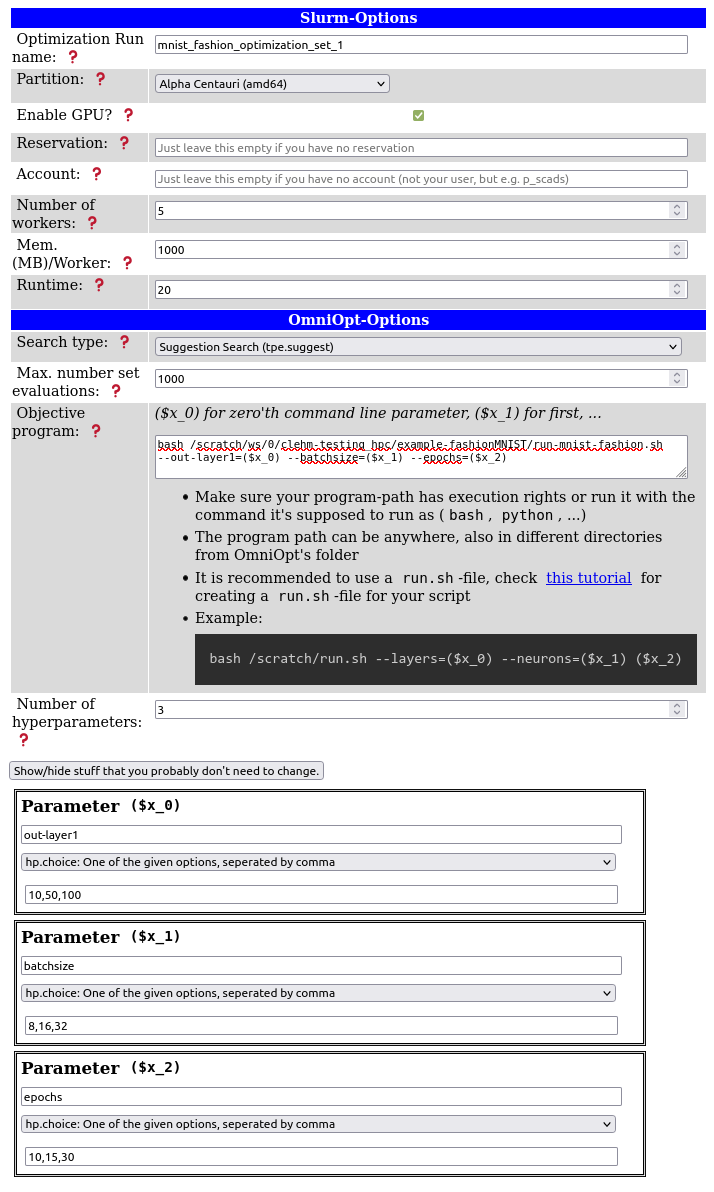
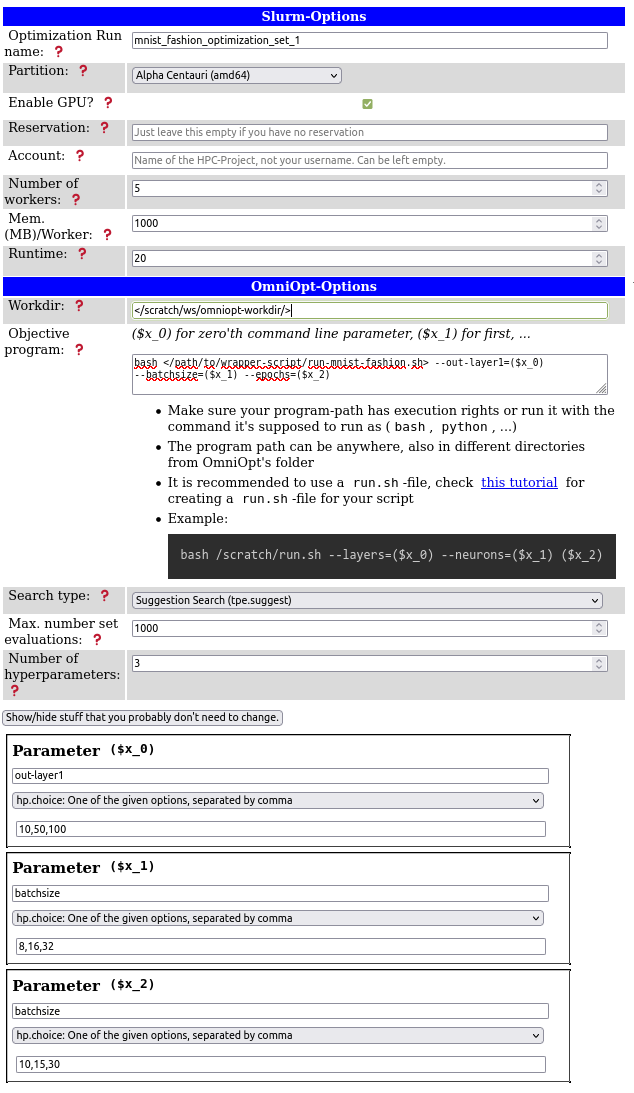
software/hyperparameter_optimization.md:first final draft for OmniOpt

diff --git a/doc.zih.tu-dresden.de/docs/software/hyperparameter_optimization.md b/doc.zih.tu-dresden.de/docs/software/hyperparameter_optimization.md
@@ -62,9 +62,9 @@ There are the following script preparation steps for OmniOpt:
         # coding: utf-8
 
         # # Example for using OmniOpt
-        # 
+        #
         # source code taken from: https://pytorch.org/tutorials/beginner/basics/quickstart_tutorial.html
-        # parameters under consideration:# 
+        # parameters under consideration:#
         # 1. batch size
         # 2. epochs
         # 3. size output layer 1
@@ -181,7 +181,7 @@ There are the following script preparation steps for OmniOpt:
             correct /= size
             print(f"Test Error: \n Accuracy: {(100*correct):>0.1f}%, Avg loss: {test_loss:>8f} \n")
 
-            
+           
             #print statement esp. for OmniOpt (single line!!)
             print(f"RESULT: {test_loss:>8f} \n")
 
@@ -195,23 +195,24 @@ There are the following script preparation steps for OmniOpt:
   1. Testing script functionality and determine software requirements for the chosen [partition](../jobs_and_resources/system_taurus.md#partitions).
     In the following the alpha partition is used.
     Please note the parameters `--out-layer1`, `--batchsize`, `--epochs` when calling the python script.
-	Additionally, note the `RESULT` string with the output for OmniOpt.
+Additionally, note the `RESULT` string with the output for OmniOpt.
 
-	??? hint "Hint for installing Python modules"
-		Note that for this example the module `torchvision` is not available on the alpha partition and it is installed by creating a [virtual environment](python_virtual_environments.md). 
-		It is recommended to install such a virtual environment into a [workspace](../data_lifecycle/workspaces.md).
-		``` console
-		marie@login$ module load modenv/hiera  GCC/10.2.0  CUDA/11.1.1 OpenMPI/4.0.5 PyTorch/1.9.0
-		marie@login$ mkdir </path/to/workspace/python-environments>    #create folder 
-	  	marie@login$ virtualenv --system-site-packages </path/to/workspace/python-environments/torchvision_env>
-		marie@login$ source </path/to/workspace/python-environments/torchvision_env>/bin/activate #activate virtual environment
-  		marie@login$ pip install torchvision #install torchvision module
-		```	
+??? hint "Hint for installing Python modules"
+Note that for this example the module `torchvision` is not available on the alpha partition and it is installed by creating a [virtual environment](python_virtual_environments.md).
+It is recommended to install such a virtual environment into a [workspace](../data_lifecycle/workspaces.md).
 
-    ```console
+    ``` console
+    marie@login$ module load modenv/hiera  GCC/10.2.0  CUDA/11.1.1 OpenMPI/4.0.5 PyTorch/1.9.0
+    marie@login$ mkdir </path/to/workspace/python-environments>    #create folder
+      marie@login$ virtualenv --system-site-packages </path/to/workspace/python-environments/torchvision_env>
+    marie@login$ source </path/to/workspace/python-environments/torchvision_env>/bin/activate #activate virtual environment
+      marie@login$ pip install torchvision #install torchvision module
+    ```
+
+    ``` console
     marie@login$ srun -p alpha --gres=gpu:1 -n 1 -c 7 --pty --mem-per-cpu=800 bash #Job submission on alpha nodes with 1 gpu on 1 node with 800 Mb per CPU
     marie@alpha$ module load modenv/hiera  GCC/10.2.0  CUDA/11.1.1 OpenMPI/4.0.5 PyTorch/1.9.0
-	marie@alpha$ source </path/to/workspace/python-environments/torchvision_env>/bin/activate #activate virtual environment
+marie@alpha$ source </path/to/workspace/python-environments/torchvision_env>/bin/activate #activate virtual environment
     Die folgenden Module wurden in einer anderen Version erneut geladen:
       1) modenv/scs5 => modenv/hiera
 
@@ -226,70 +227,122 @@ There are the following script preparation steps for OmniOpt:
     loss: 0.572221  [30000/60000]
     loss: 1.516888  [40000/60000]
     loss: 0.445737  [50000/60000]
-    Test Error: 
-     Accuracy: 69.5%, Avg loss: 0.878329 
+    Test Error:
+     Accuracy: 69.5%, Avg loss: 0.878329
 
-    RESULT: 0.878329 
+    RESULT: 0.878329
 
     Done!
     ```
 
-	Using the modified script within OmniOpt requires configuring and loading of the software environment. 
-	The recommended way is to wrap the necessary calls in a shell script.
+Using the modified script within OmniOpt requires configuring and loading of the software environment.
+The recommended way is to wrap the necessary calls in a shell script.
 
-	??? example "Example for wrapping with shell script"
-		``` shell
-		#!/bin/bash -l
-		# ^ Shebang-Line, so that it is known that this is a bash file
-		# -l means 'load this as login shell', so that /etc/profile gets loaded and you can use 'module load' or 'ml' as usual
+??? example "Example for wrapping with shell script"
+    ``` shell
+    #!/bin/bash -l
+    # ^ Shebang-Line, so that it is known that this is a bash file
+    # -l means 'load this as login shell', so that /etc/profile gets loaded and you can use 'module load' or 'ml' as usual
 
-		# If you use this script not via `./run.sh' or just `srun run.sh', but like `srun bash run.sh', please add the '-l' there too.
-		# Like this:
-		# srun bash -l run.sh
+    # If you use this script not via `./run.sh' or just `srun run.sh', but like `srun bash run.sh', please add the '-l' there too.
+    # Like this:
+    # srun bash -l run.sh
 
-		# Load modules your program needs, always specify versions!
-		module load modenv/hiera GCC/10.2.0 CUDA/11.1.1 OpenMPI/4.0.5 PyTorch/1.7.1
-		source </path/to/workspace/python-environments/torchvision_env>/bin/activate #activate virtual environment
+    # Load modules your program needs, always specify versions!
+    module load modenv/hiera GCC/10.2.0 CUDA/11.1.1 OpenMPI/4.0.5 PyTorch/1.7.1
+    source </path/to/workspace/python-environments/torchvision_env>/bin/activate #activate virtual environment
 
-		# Load your script. $@ is all the parameters that are given to this shell file.
-		python </path/to/your/script/mnistFashion.py> $@ 
-		```
+    # Load your script. $@ is all the parameters that are given to this shell file.
+    python </path/to/your/script/mnistFashion.py> $@
+    ```
 
-	When the wrapped shell script is running properly the preparations are finished and the next step is configuring OmniOpt.
+When the wrapped shell script is running properly the preparations are finished and the next step is configuring OmniOpt.
 
 ### Configure and Run OmniOpt
 
 Configuring OmniOpt is done via the GUI at [https://imageseg.scads.ai/omnioptgui/](https://imageseg.scads.ai/omnioptgui/){:target="_blank"}..
-This GUI guides through the configuration process and as result a configuration file is created automatically according to the GUI input. 
+This GUI guides through the configuration process and as result a configuration file is created automatically according to the GUI input.
 If you are more familiar with using OmniOpt later on, this configuration file can be modified directly without using the GUI.
 
 A screenshot of the GUI, including a properly configuration for the MNIST fashion example is shown below.
-The GUI, in which the displayed values are already entered, can be reached [here](https://imageseg.scads.ai/omnioptgui/?maxevalserror=5&mem_per_worker=1000&number_of_parameters=3&param_0_values=10%2C50%2C100&param_1_values=8%2C16%2C32&param_2_values=10%2C15%2C30&account=&partition=alpha&searchtype=tpe.suggest&objective_program=bash%20%3C%2Fpath%2Fto%2Fyour%2Fwrapper-script%2Frun-mnist-fashion.sh%3E%20--out-layer1%3D(%24x_0)%20--batchsize%3D(%24x_1)%20--epochs%3D(%24x_2)&param_0_type=hp.choice&param_1_type=hp.choice&param_2_type=hp.choice&param_0_name=out-layer1&param_1_name=batchsize&param_2_name=batchsize&projectname=mnist_fashion_optimization_set_1){:target="_blank"}.
+The GUI, in which the below displayed values are already entered, can be reached [here](https://imageseg.scads.ai/omnioptgui/?maxevalserror=5&mem_per_worker=1000&number_of_parameters=3&param_0_values=10%2C50%2C100&param_1_values=8%2C16%2C32&param_2_values=10%2C15%2C30&param_0_name=out-layer1&param_1_name=batchsize&param_2_name=batchsize&account=&projectname=mnist_fashion_optimization_set_1&partition=alpha&searchtype=tpe.suggest&param_0_type=hp.choice&param_1_type=hp.choice&param_2_type=hp.choice&max_evals=1000&objective_program=bash%20%3C%2Fpath%2Fto%2Fwrapper-script%2Frun-mnist-fashion.sh%3E%20--out-layer1%3D(%24x_0)%20--batchsize%3D(%24x_1)%20--epochs%3D(%24x_2)&workdir=%3C%2Fscratch%2Fws%2Fomniopt-workdir%2F%3E){:target="_blank"}.
+Please modify the paths for "objective programm" and "workdir" according to your needs.
 
 ![GUI for configuring OmniOpt](misc/hyperparameter_optimization-OmniOpt-GUI.png)
 {: align="center"}
 
-After all parameters are entered into the GUI, the call for OmniOpt is generated and displayed on the right. This command contains all necessary instructions (including requesting resources with Slurm). Thus, this command can be executed directly on a login node on the ZIH system. 
+Using OmniOpt for a first trial example, it is often sufficient to concentrate on the following configuration parameters:
+
+1. **Optimization run name:**
+A name for a OmniOpt run given a belonging configuration.
+1. **Partition:**
+Choosing the partition on the ZIH system that fits the program needs.
+1. **Enable GPU:**
+Decide whether a program could benefit from GPU usage or not.
+1. **Workdir:**
+The directory where OmniOpt is saving its neccessary files and all results.
+Derived from the optimization run name, their is created a single directory for every such configuration.
+Make sure that this working directory is writeable from the compute nodes.
+It is recommended to use a [workspace](../data_lifecycle/workspaces.md).
+1. **Objective program:**
+Provide all information for program execution. Typically, this will contain the command for executing a wrapper script.
+1. **Parameters:**
+The hyperparameters to be optimized with the names OmniOpt should use.
+For the example here, the variable names are identical to the input parameters of the Python script.
+However, these names can be chosen differently, since the connection to OmniOpt is realized via the variables ($x_0), ($x_1), etc. from the GUI section "Objective program".
+Please note that it is not necessary to name the parameters explicitly in your script but only within the OmniOpt configuration.
+
+After all parameters are entered into the GUI, the call for OmniOpt is generated automatically and displayed on the right. This command contains all necessary instructions (including requesting resources with Slurm).
+**Thus, this command can be executed directly on a login node on the ZIH system.**
 
 ![GUI for configuring OmniOpt](misc/hyperparameter_optimization-OmniOpt-final-command.png)
 {: align="center"}
 
+After executing this command OmniOpt is doing all the magic in the background and there are no further actions necessary.
+
+??? hint "Hints on the working directory"
+    1. Starting OmniOpt without providing a working directory will store OmniOpt into the present directory.
+    1. Within the given working directory a new folder named "omniopt" as default, is created.
+    1. Within one OmniOpt working directory there can be multiple optimization projects.
+    1. It is possible to have as many working directories as you want (with multiple optimization runs).
+    1. It is recommended to use a [workspace](../data_lifecycle/workspaces.md) as working directory, but not the home directory.
+
 ### Check and Evaluate OmniOpt Results
 
-TODO
+For getting informed about the current status of OmniOpt or for looking into results, the evaluation tool of OmniOpt is used.
+Switch to the OmniOpt folder and run ```evaluate-run.sh```.
 
-## Details on OmniOpt
+    ``` console
+        marie@login$ bash </scratch/ws/omniopt-workdir/>evaluate-run.sh
+    ```
 
-TODO
+After initializing and checking for updates in the background Omniopt is asking to select the optimization run of interest.
+After selecting the optimization run, there will be a menu with the items as shown below.
+If OmniOpt has still running jobs there appear some menu items that refer to these running jobs (image shown below to the right).
 
-### Configuration
+evaluation options (all jobs finished)                            |  evaluation options (still running jobs)
+:--------------------------------------------------------------:|:-------------------------:
+![GUI for configuring OmniOpt](misc/OmniOpt-evaluate-menu.png)  |  ![GUI for configuring OmniOpt](misc/OmniOpt-still-running-jobs.png)
 
-TODO
+For now we assume that OmniOpt has finshed already.
+In order to look into the results, there are the following basic approaches.
 
-### Monitoring
+1. **Graphical approach:**
+    There are basically two graphical approaches: two dimensional scatterplots and parallel plots.
 
-TODO
+    Below there is shown a parallel plot from the MNIST fashion example.
+    ![GUI for configuring OmniOpt](misc/OmniOpt-parallel-plot.png){: align="center"}
 
-### Evaluation of Results
+    ??? hint "Hints on parallel plots"
+        Parallel plots are suitable especially for dealing with multiple dimensions.
+        The parallel plot created by OmniOpt is an interactive html file that is stored in the ominopt working directory under ```projects/<name_of_optimization_run>/parallel-plot```.
+        The interactivity of this plot is intended to make optimal combinations of the hyperparameters visible more easily.
+        Get more information about this interactivity by clicking the "Help" button at the top of the graphic (see red arrow on the image above).
 
-TODO
+    After creating the plot OmniOpt suggests to open the html file directly in a web browser on the ZIH system.
+    Therefore, it is neccessary to login via ssh with the option -X (X11 forwarding), e.g. ```ssh -X taurus.hrsk.tu-dresden.de```.
+    Nevertheless, because of latency using x11 forwarding it is recommended to download the html file and explore the parallel plot on the local machine.
+
+1. **Getting the raw data:**
+    As a second approach the raw data of the optimization process can be exported as a csv file.
+    The created output files are stored in the folder ```projects/<name_of_optimization_run>/csv```.
